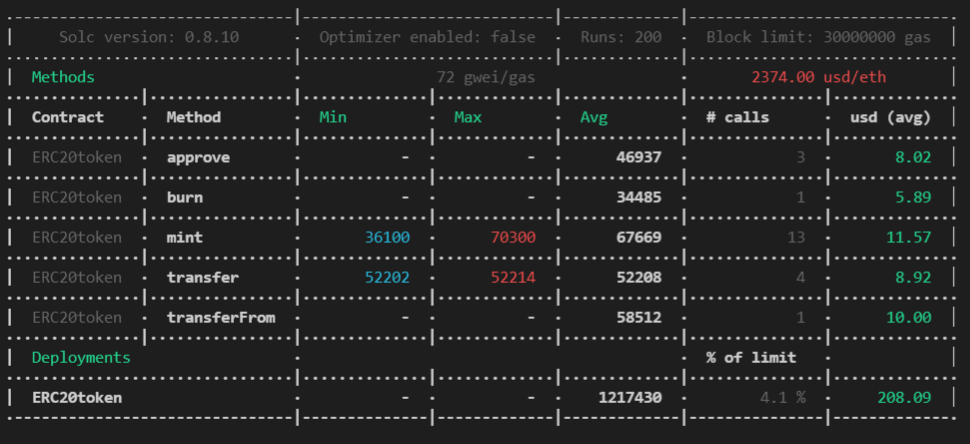
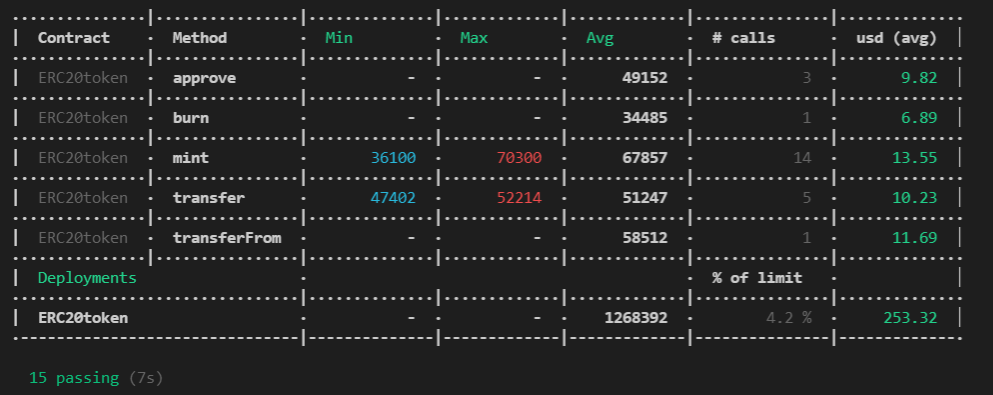
commit

Changed region(s): [[0.0, 0.0304, 0.9897, 0.8203], [0.0, 0.8203, 0.9897, 0.9722]]

diff --git a/tasks/approve.js b/tasks/approve.js
@@ -6,20 +6,20 @@ async function main() {
     const provider = new ethers.providers.JsonRpcProvider(URL_ALCHEMY)
     const admin = new ethers.Wallet(PRIVATE_KEY, provider)
     const signer = new ethers.Wallet(PRIVATE_KEY2, provider)
-    const myContract = await ethers.getContractAt('ERC20token', contractAddress, signer)
+    const myContract = await ethers.getContractAt('ERC20token', contractAddress, admin)
     const value = ethers.utils.parseEther('5')
     
     try {
         
         const contractBalance = await myContract.totalSupply()
         const contractBalanceEth = ethers.utils.formatEther(contractBalance)
-        console.log(`Balance before transfer: ${contractBalanceEth}BLR`)
+        console.log(`Balance before transfer: ${contractBalanceEth} BLR`)
         // getting permission to withdraw:
         await myContract.connect(admin).approve(signer.address, value)
 
         const response = await myContract.connect(signer).allowance(admin.address, signer.address)
         const responseEth = ethers.utils.formatEther(response)
-        console.log(`Allowed to withdraw from this address: ${responseEth}BLR`)
+        console.log(`Allowed to withdraw from this address: ${responseEth} BLR`)
         
         //---------
         // transferring tokens and then checking that it is allowed to be equal to minus value.

diff --git a/tasks/transferFrom.js b/tasks/transferFrom.js
@@ -6,17 +6,20 @@ async function main() {
         const provider = new ethers.providers.JsonRpcProvider(URL_ALCHEMY)
         const admin = new ethers.Wallet(PRIVATE_KEY, provider)
         const signer = new ethers.Wallet(PRIVATE_KEY2, provider)
-        const myContract = await ethers.getContractAt('ERC20token', contractAddress, signer)
+        const myContract = await ethers.getContractAt('ERC20token', contractAddress, admin)
         const value = ethers.utils.parseEther('5')
         
         try {
           
           const contractBalance = await myContract.totalSupply()
           const contractBalanceEth = ethers.utils.formatEther(contractBalance)  
-          console.log(`"Balance before transfer:${contractBalanceEth}BLR`)
+          console.log(`"Balance before transfer:${contractBalanceEth} BLR`)
           await myContract.connect(admin).approve(signer.address, value)
           await myContract.connect(signer).transferFrom(admin.address, signer.address, value)
-          
+          const BalanceEth = await ethers.utils.formatEther(value)
+          console.log(`sent from address:${admin.address} 
+                       to address:${signer.address} - ${BalanceEth} BLR`)
+
         } catch (error) {
           console.log('Something went wrong', error)
         }

diff --git a/tasks/transfer.js b/tasks/transfer.js
@@ -6,16 +6,19 @@ async function main() {
         const provider = new ethers.providers.JsonRpcProvider(URL_ALCHEMY)
         const admin = new ethers.Wallet(PRIVATE_KEY, provider)
         const signer = new ethers.Wallet(PRIVATE_KEY2, provider)
-        const myContract = await ethers.getContractAt('ERC20token', contractAddress, signer)
+        const myContract = await ethers.getContractAt('ERC20token', contractAddress, admin)
         const value = ethers.utils.parseEther('5')
         
         try {
           
           const contractBalance = await myContract.totalSupply()
-          const contractBalanceETH = await ethers.utils.formatEther(contractBalance)
-          console.log(`Balance before transfer: ${contractBalanceETH}BLR`)
+          const contractBalanceEth = await ethers.utils.formatEther(contractBalance)
+          console.log(`Balance before transfer: ${contractBalanceEth} BLR`)
           await myContract.connect(admin).transfer(signer.address, value)
-          
+          const BalanceEth = await ethers.utils.formatEther(value)
+          console.log(`sent from address:${admin.address} 
+                       to address:${signer.address} - ${BalanceEth} BLR`)
+
         } catch (error) {
           console.log('Something went wrong', error)
         }

diff --git a/tasks/allowances.js b/tasks/allowances.js
@@ -6,12 +6,13 @@ async function main() {
     const provider = new ethers.providers.JsonRpcProvider(URL_ALCHEMY)
     const admin = new ethers.Wallet(PRIVATE_KEY, provider)
     const signer = new ethers.Wallet(PRIVATE_KEY2, provider)
-    const myContract = await ethers.getContractAt('ERC20token', contractAddress, signer)
+    const myContract = await ethers.getContractAt('ERC20token', contractAddress, admin)
     
     try {
         const response = await myContract.connect(signer).allowance(admin.address, signer.address)
         const responseEth = ethers.utils.formatEther(response)
-        console.log(`Address ${signer.address} is allowed to withdraw off:${responseEth}BLR from the address ${admin.address}`)
+        console.log(`Address ${signer.address} 
+        is allowed to withdraw off:${responseEth} BLR from the address ${admin.address}`)
 
     } catch (error) {
         console.log('Something went wrong: ', error)

diff --git a/tasks/contractInfo.js b/tasks/contractInfo.js
@@ -12,7 +12,7 @@ async function main() {
         const decimals = await myContract.decimals()
         console.log("ContractInfo:\n" + 
         "Description: " + name + "\n" +
-        "Rinkiby testNet contract token address: 0x9E1765B00c1EE2eeB38c93EE2997c138024840D2" + "\n" + 
+        "Rinkiby testNet contract token address: 0xcd61492203af21301DCc53b4F042998DF65d128E" + "\n" + 
         "Symbol: " + symbol + "\n" + 
         "Total supply: " + totalSupply + "\n" +
         "Decimals: " + decimals + "\n"  

diff --git a/test/contract-tests.js b/test/contract-tests.js
@@ -165,6 +165,12 @@ describe("Transfer functions", () => {
             .to.be.revertedWith('Not enough tokens or amount is more than allowed')
     })
 
+    it('throws and error if permission to withdraw tokens is not received', async () => {
+        await token.connect(admin).transfer(addr2.address, value)
+        await expect(token.connect(admin).approve(addr1.address, value1))
+            .to.be.revertedWith('Not enough tokens for approve')
+
+    })
 })
 
 

diff --git a/tasks/balances.js b/tasks/balances.js
@@ -11,7 +11,7 @@ async function main() {
     try {
         const response = await myContract.connect(signer).balanceOf(signer.address)
         const responseEth = ethers.utils.formatEther(response)
-        console.log(`Address balance: ${signer.address} is equal to: ${responseEth}BLR`)
+        console.log(`Address balance: ${signer.address} is equal to: ${responseEth} BLR`)
 
     } catch (error) {
         console.log('Something went wrong: ', error)

diff --git a/README.md b/README.md
@@ -3,7 +3,7 @@
 #### Token contract address (Rinkiby): 
 0x9E1765B00c1EE2eeB38c93EE2997c138024840D2
 #### Etherscan verify: 
-https://rinkeby.etherscan.io/address/0x9E1765B00c1EE2eeB38c93EE2997c138024840D2#code
+https://rinkeby.etherscan.io/address/0xcd61492203af21301DCc53b4F042998DF65d128E#code
 
 ### Description task: 
 #### Написать токен стандарта ERC-20
@@ -40,6 +40,7 @@ npx hardhat run scripts/file-name.js
 npx hardhat test 
 npx hardhat coverage
 npx hardhat run --network localhost scripts/deploy.js
+npx hardhat run scripts/deploy.js --network rinkiby
 npx hardhat verify --constructor-args scripts/arguments.js 0x9E1765B00c1EE2eeB38c93EE2997c138024840D2 --network rinkiby
 ```
 #### Test Report:
